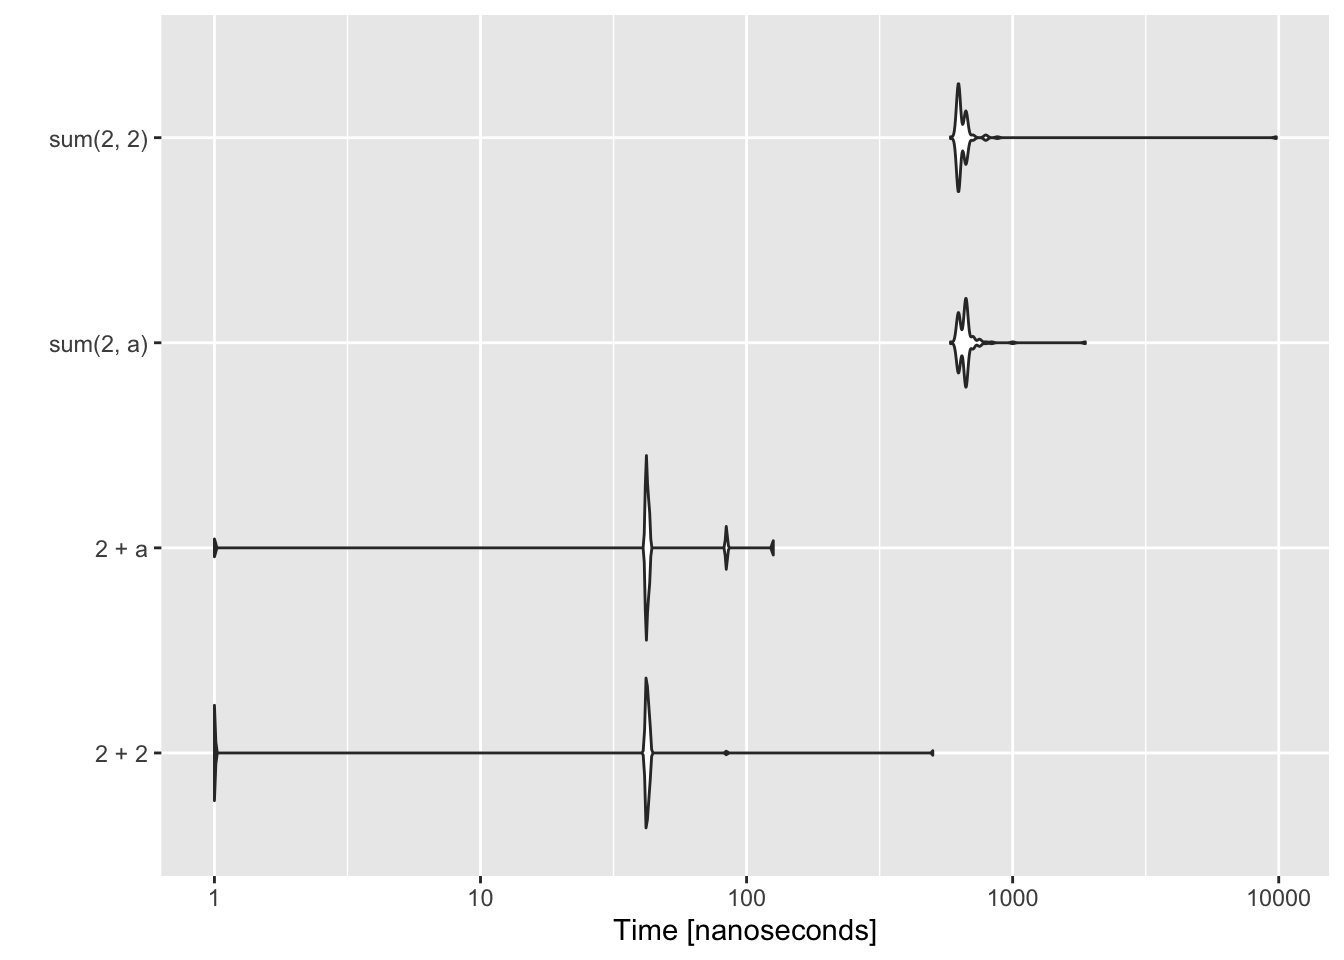
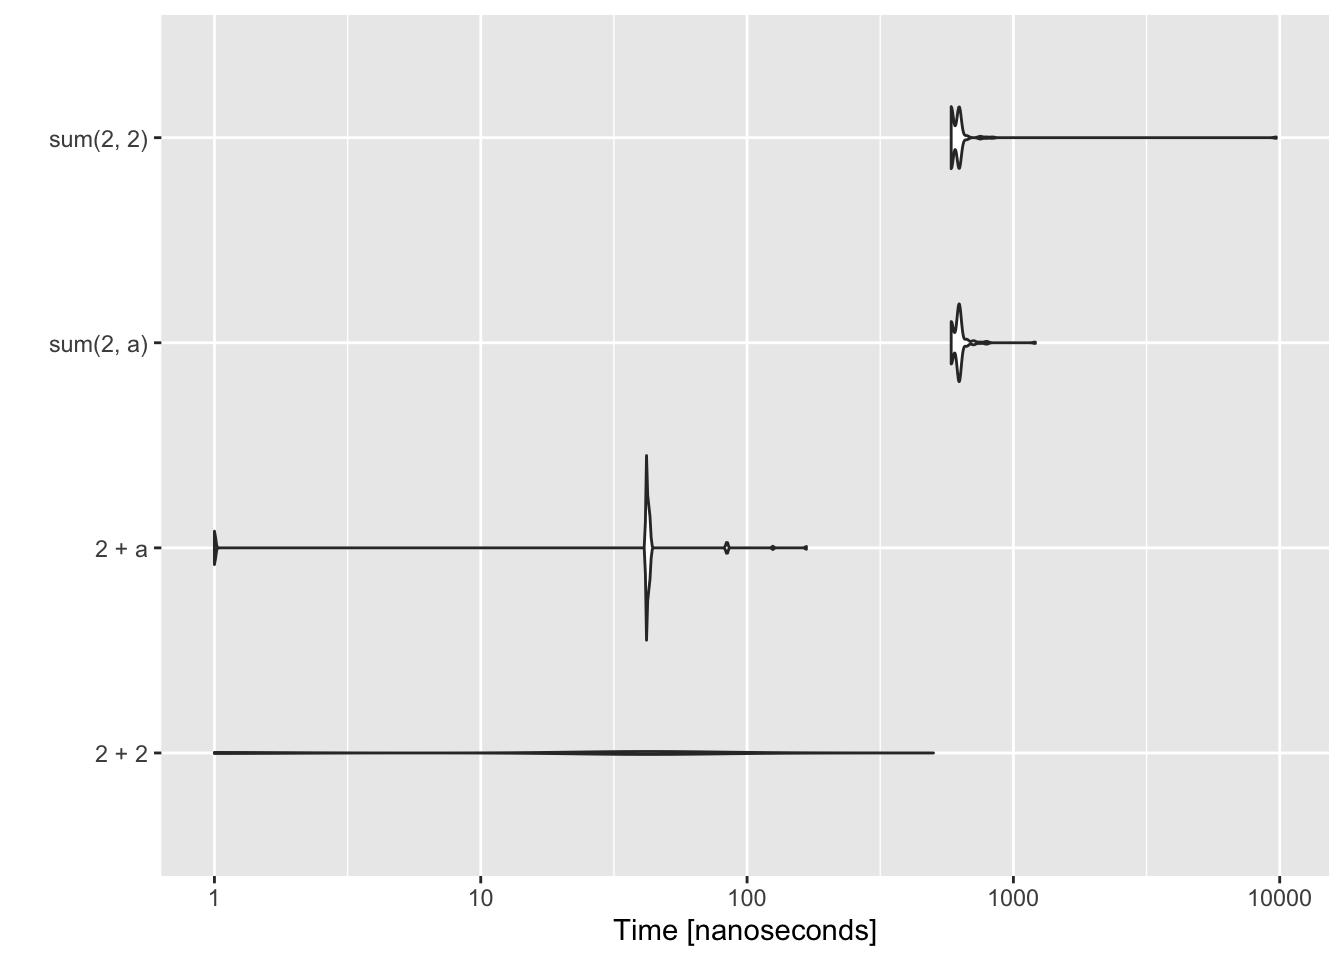
update set-up

diff --git a/set-up.html b/set-up.html
@@ -512,8 +512,21 @@ git config --global user.name &quot;&lt;your name&gt;&quot;</code></pre>
 </div>
 <div id="telling-rstudio-your-github-username-and-password" class="section level3">
 <h3>Telling RStudio your GitHub username and password</h3>
-<p>You only need this if you will be pushing to GitHub or have a private repo and are pulling. Everything else works fine without your password.</p>
-<p>See the <a href="https://rverse-tutorials.github.io/RWorkflow-NWFSC-2020/set-up.html#Set_up_RStudio_to_use_Git">2020 Set-up instructions</a> and go to the part about setting up your credentials. I won’t be covering this in 2021.</p>
+<p>Go to <a href="https://happygitwithr.com/credential-caching.html">HappyGitwR</a> to read all about how to pass your credentials (e.g. username and password) to GitHub so you can interact (read push/pull changes) with your GitHub reponsitories.</p>
+<p><strong>Here is the simple version</strong></p>
+<p>Install these two packages if you don’t have them already:</p>
+<pre><code>install.packages(&quot;usethis&quot;)
+install.packages(&quot;gitcreds&quot;)</code></pre>
+<p>Run this code to generate your Personal Access Token (PAT) for your GitHub account. It doesn’t matter what folder you are in when you run this. Just to the R command line in RStudio within any folder or project. For most people, you can just accept the default scope that <strong>usethis</strong> selects for you. If you are not one of those people, then you will know what extra boxes to check. Everyone else, just accept the default scopes. Next choose a time limit for your PAT. You can choose “forever” but you might not want to do that. I set up mine for 12 months.</p>
+<pre><code>usethis::create_github_token()</code></pre>
+<p>SAVE the token, that long string of letters!! You need it for the next step.</p>
+<p>Next set up R so it knows where this PAT is:</p>
+<pre><code>gitcreds_set()</code></pre>
+<p>If you have an old PAT that you need to replace, it will give you an option for that.</p>
+<p>Now pushing and pulling to GitHub should work fine from R (and RStudio).</p>
+<p>If you need to make another PAT, because your PAT expired or you messed up the scope, then go here</p>
+<p><a href="https://github.com/settings/tokens" class="uri">https://github.com/settings/tokens</a></p>
+<p>to delete the old on before setting up a new one.</p>
 <!--
 
 ### NWFSC staff

diff --git a/week8-adv-packages.html b/week8-adv-packages.html
@@ -677,9 +677,8 @@ for(i in 1:10000){ b &lt;- t(a)%*%a }
 Rprof()
 summaryRprof(tmp)$by.self</code></pre>
 <pre><code>##             self.time self.pct total.time total.pct
-## &quot;%*%&quot;            0.60    93.75       0.60     93.75
-## &quot;eval&quot;           0.02     3.12       0.64    100.00
-## &quot;t.default&quot;      0.02     3.12       0.02      3.12</code></pre>
+## &quot;%*%&quot;            0.56    90.32       0.56     90.32
+## &quot;t.default&quot;      0.06     9.68       0.06      9.68</code></pre>
 <pre class="r"><code>Rprof(NULL) #stop profiling</code></pre>
 </div>
 <div id="profvis-package" class="section level3">
@@ -695,7 +694,7 @@ res &lt;- microbenchmark(2 + 2, 2 + a, sum(2, a), sum(2, 2))
 ggplot2::autoplot(res)</code></pre>
 <pre><code>## Coordinate system already present. Adding new coordinate system, which will replace the existing one.</code></pre>
 <pre><code>## Warning: Transformation introduced infinite values in continuous y-axis</code></pre>
-<pre><code>## Warning: Removed 10 rows containing non-finite values (stat_ydensity).</code></pre>
+<pre><code>## Warning: Removed 14 rows containing non-finite values (stat_ydensity).</code></pre>
 <p><img src="week8-adv-packages_files/figure-html/unnamed-chunk-5-1.png" width="672" /></p>
 <p>This shows an example of code using <a href="https://www.datacamp.com/community/tutorials/pipe-r-tutorial">piping</a> (<code>%&gt;%</code>) versus without. This is why I do not use piping in my simulations. It is slow though it has gotten much faster in <strong>magrittr</strong> 2.0.</p>
 <pre class="r"><code>library(magrittr)
